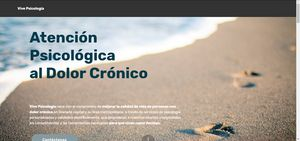
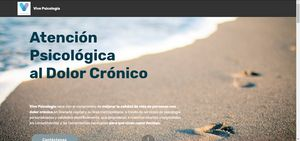
Redes sociales

Changed region(s): [[0.03, 0.0, 0.21, 0.1135]]

diff --git a/index.html b/index.html
@@ -27,7 +27,7 @@
 
     
 
-    <nav class="navbar navbar-expand beta-menu navbar-dropdown align-items-center navbar-fixed-top navbar-toggleable-sm">
+    <nav class="navbar navbar-expand beta-menu navbar-dropdown align-items-center navbar-toggleable-sm">
         <button class="navbar-toggler navbar-toggler-right" type="button" data-toggle="collapse" data-target="#navbarSupportedContent" aria-controls="navbarSupportedContent" aria-expanded="false" aria-label="Toggle navigation">
             <div class="hamburger">
                 <span></span>
@@ -40,20 +40,27 @@
             <div class="navbar-brand">
                 <span class="navbar-logo">
                     <a href="https://mobirise.com">
-                         <img src="assets/images/captura-122x125.png" alt="Mobirise" title="" style="height: 3.8rem;">
+                         <img src="assets/images/captura-122x125.png" alt="Mobirise" title="" style="height: 5.5rem;">
                     </a>
                 </span>
                 <span class="navbar-caption-wrap"><a class="navbar-caption text-white display-4" href="https://vivepsicologia.github.io/VivePsicologia/">Vive Psicología</a></span>
             </div>
         </div>
         <div class="collapse navbar-collapse" id="navbarSupportedContent">
-            
+            <ul class="navbar-nav nav-dropdown nav-right" data-app-modern-menu="true"><li class="nav-item">
+                    <a class="nav-link link text-white display-4" href="https://mobirise.com">
+                        </a>
+                </li>
+                <li class="nav-item">
+                    <a class="nav-link link text-white display-4" href="https://mobirise.com">
+                        </a>
+                </li></ul>
             
         </div>
     </nav>
 </section>
 
-<section class="engine"><a href="https://mobirise.info/i">web creation software</a></section><section class="header9 cid-r9A39ydVpF mbr-fullscreen mbr-parallax-background" id="header9-8">
+<section class="engine"><a href="https://mobirise.info/v">html templates</a></section><section class="header9 cid-r9A39ydVpF mbr-fullscreen mbr-parallax-background" id="header9-8">
 
     
 
@@ -252,7 +259,7 @@
             <div class="media-container-column col-lg-8" data-form-type="formoid">
                     <div data-form-alert="" hidden="">¡Gracias por contactar con nosotros! Con la mayor brevedad que nos sea posible responderemos su consulta.</div>
             
[2 lines of base64/hex data omitted]
                         <div class="row row-sm-offset">
                             <div class="col-md-4 multi-horizontal" data-for="name">
                                 <div class="form-group">
@@ -289,7 +296,28 @@
     <div class="container">
         <div class="media-container-row align-center mbr-white">
             
-            
+            <div class="row social-row">
+                <div class="social-list align-right pb-2">
+                    
+                    
+                    
+                    
+                    
+                    
+                <div class="soc-item">
+                        <a href="https://www.facebook.com/VivePsicologiaGranada/" target="_blank">
+                            <span class="mbr-iconfont mbr-iconfont-social socicon-facebook socicon"></span>
+                        </a>
+                    </div><div class="soc-item">
+                        <a href="https://www.instagram.com/vivepsicologia/" target="_blank">
+                            <span class="mbr-iconfont mbr-iconfont-social socicon-instagram socicon"></span>
+                        </a>
+                    </div><div class="soc-item">
+                        <a href="mailto:vivepsicologiagranada@gmail.com">
+                            <span class="mbr-iconfont mbr-iconfont-social socicon-mail socicon"></span>
+                        </a>
+                    </div></div>
+            </div>
             <div class="row row-copirayt">
                 <p class="mbr-text mb-0 mbr-fonts-style mbr-white align-center display-7">
                     © Copyright 2017 Mobirise - All Rights Reserved

diff --git a/assets/mobirise/css/mbr-additional.css b/assets/mobirise/css/mbr-additional.css
@@ -1763,7 +1763,7 @@ body {
 }
 .cid-qTkzRZLJNu .nav-link:hover,
 .cid-qTkzRZLJNu .dropdown-item:hover {
-  color: #c1c1c1 !important;
+  color: #55b4d4 !important;
 }
 .cid-qTkA127IK8 {
   background-image: url("../../../assets/images/jumbotron.jpg");
@@ -2222,7 +2222,7 @@ body {
 }
 .cid-qTkzRZLJNu .nav-link:hover,
 .cid-qTkzRZLJNu .dropdown-item:hover {
-  color: #c1c1c1 !important;
+  color: #55b4d4 !important;
 }
 .cid-r9A39ydVpF {
   background-image: url("../../../assets/images/beach-salt-water-sand-17727-2000x1333.jpg");
@@ -2453,7 +2453,7 @@ body {
 }
 .cid-r9A4wKvBJD {
   padding-top: 30px;
-  padding-bottom: 30px;
+  padding-bottom: 45px;
   background-color: #2e2e2e;
 }
 .cid-r9A4wKvBJD .row-links {

diff --git a/pag1.html b/pag1.html
@@ -49,7 +49,7 @@
     </nav>
 </section>
 
-<section class="engine"><a href="https://mobirise.info/l">free web templates</a></section><section class="cid-qTkA127IK8 mbr-fullscreen mbr-parallax-background" id="header2-1">
+<section class="engine"><a href="https://mobirise.info/a">online site builder</a></section><section class="cid-qTkA127IK8 mbr-fullscreen mbr-parallax-background" id="header2-1">
 
     
 
